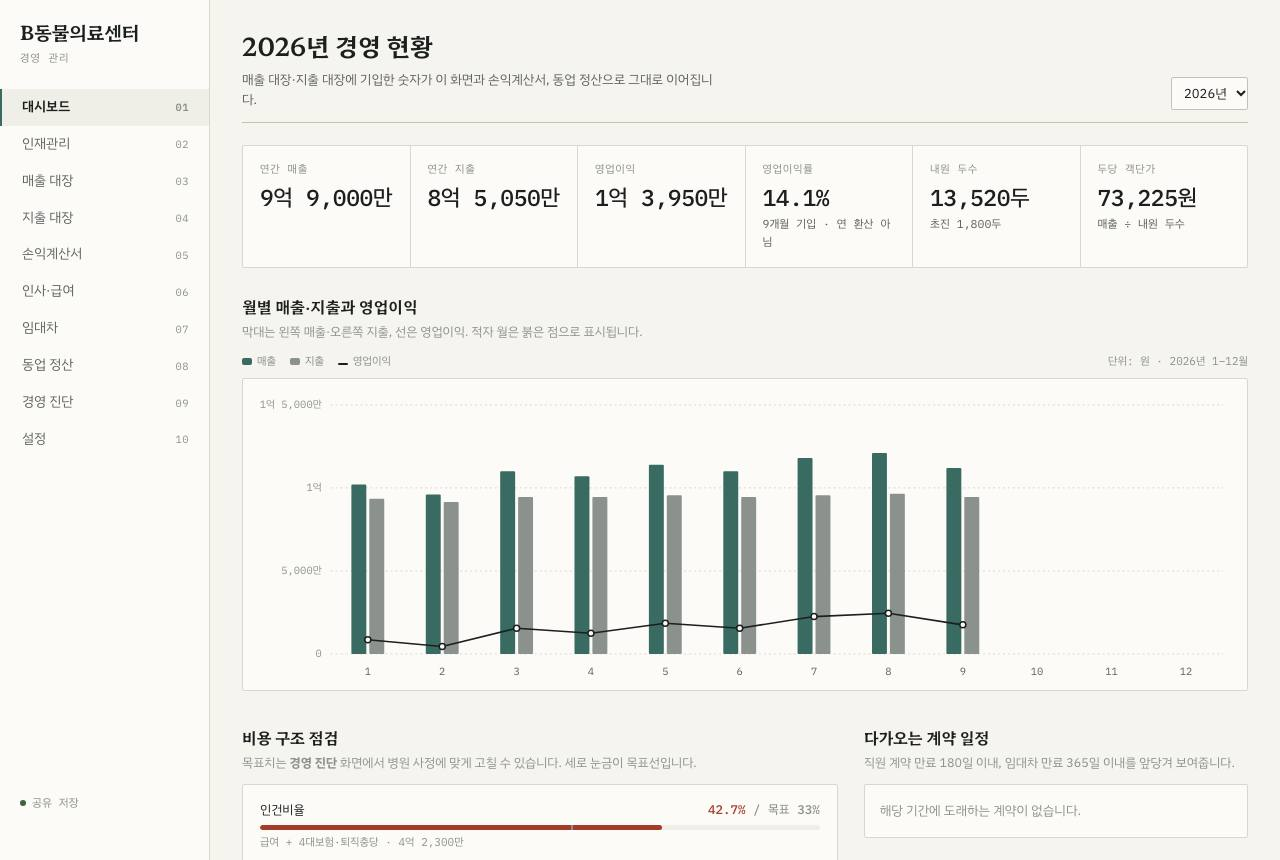
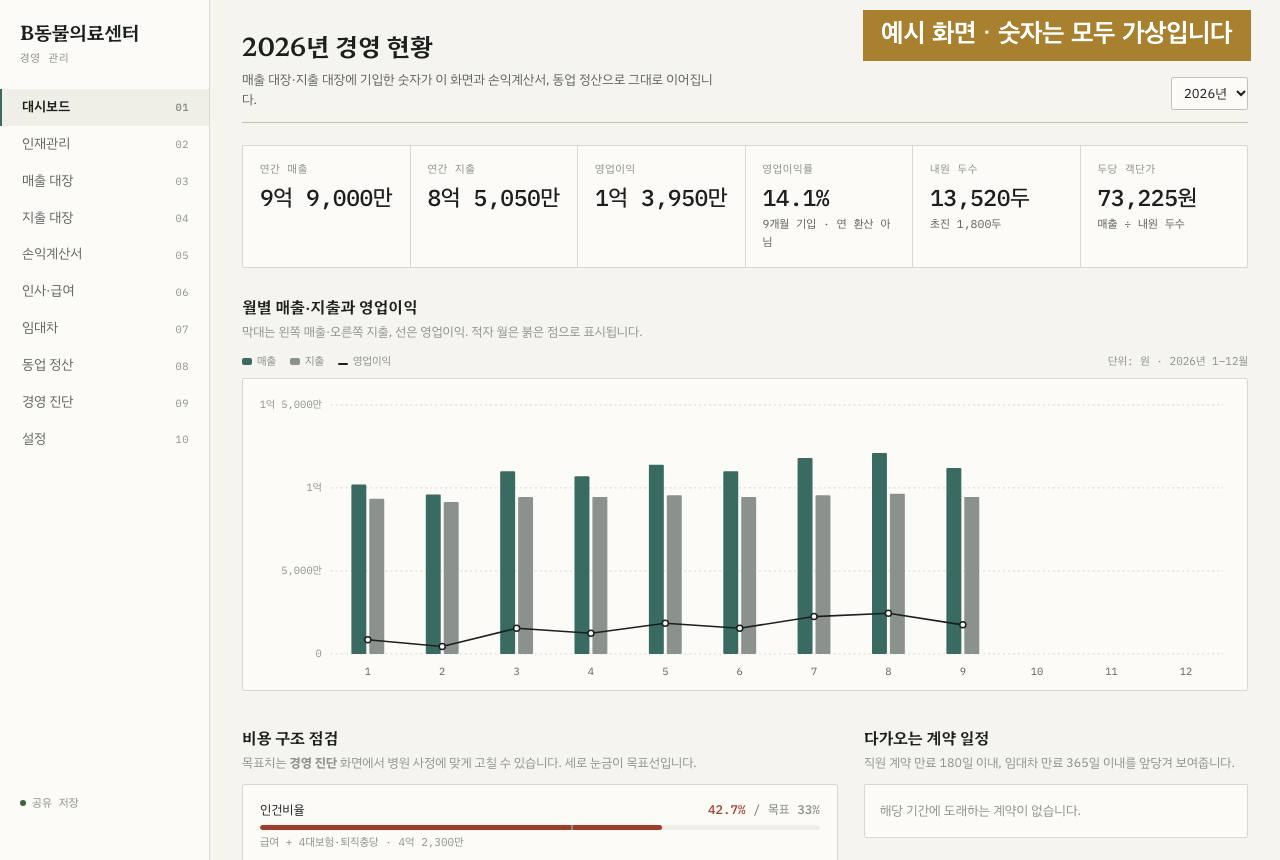
AI 교육 페이지: 경영대장 화면에 예시 표시, 화면 보기 창에 가상 데이터 안내

Changed region(s): [[0.6562, 0.0, 1.0, 0.0907]]

diff --git a/public/ai-class.html b/public/ai-class.html
@@ -119,6 +119,7 @@ table.cost tr.sum td{border-bottom:2px solid var(--ink);font-weight:700;padding-
 .pdlg-h p{color:var(--ink-2);font-size:.93rem;margin-top:4px}
 .pdlg-h button{font:inherit;font-size:.85rem;background:transparent;color:var(--ink);border:1px solid var(--line);padding:6px 14px;cursor:pointer}
 .pdlg img{width:100%;height:auto;border:1px solid var(--line);display:block}
+.pdlg-c{font-size:.82rem;color:var(--ink-3);margin-top:-6px}
 .pdlg-no{padding:40px 0;text-align:center;color:var(--ink-3);border:1px dashed var(--line)}
 .why{display:grid;grid-template-columns:minmax(0,.8fr) minmax(0,1.2fr);gap:56px}
 .why-body{display:grid;gap:16px;font-family:var(--serif);font-size:1.08rem;line-height:1.85;max-width:62ch}
@@ -351,7 +352,7 @@ footer{padding-block:32px;font-size:.82rem;color:var(--ink-3)}
     </ul>
     <div class="prog-list" id="plist"></div>
     <p class="note">이름을 누르면 전과 후가 어떻게 달라졌는지, 실제 화면과 함께 볼 수 있습니다. 화면 속 환자·직원·병원 이름과 수치는 모두 실제 사용 모습을 보여 드리기 위한 가상 데이터입니다.</p>
-    <dialog id="pdlg" class="pdlg"><div class="pdlg-in"><div class="pdlg-h"><div><b id="pdlgT"></b><div id="pdlgD" class="pdlg-d"></div></div><button type="button" id="pdlgX" aria-label="닫기">닫기</button></div><img id="pdlgI" alt="" hidden><p id="pdlgN" class="pdlg-no" hidden>화면은 교육 당일 시연으로 보여 드립니다.</p></div></dialog>
+    <dialog id="pdlg" class="pdlg"><div class="pdlg-in"><div class="pdlg-h"><div><b id="pdlgT"></b><div id="pdlgD" class="pdlg-d"></div></div><button type="button" id="pdlgX" aria-label="닫기">닫기</button></div><img id="pdlgI" alt="" hidden><p id="pdlgC" class="pdlg-c" hidden>예시 화면입니다. 이름과 숫자는 모두 가상 데이터입니다.</p><p id="pdlgN" class="pdlg-no" hidden>화면은 교육 당일 시연으로 보여 드립니다.</p></div></dialog>
   </div>
 </section>
 
@@ -535,7 +536,7 @@ footer{padding-block:32px;font-size:.82rem;color:var(--ink-3)}
 
 <script>
 (function(){
-  var G=[["진료", [{"n": "진료 녹음 차트", "t": "녹음을 고르면 SOAP 차트와 보호자 카톡 문안이 나옵니다", "i": "", "b": "", "a": "Plaud로 녹음한 진료를 SOAP 차트와 보호자에게 보낼 카카오톡 문안으로 정리합니다.", "p": ["녹음 전사문을 근거로 차트를 쓰므로 기억에 의존하지 않습니다", "보호자 안내가 매번 같은 형식으로 나갑니다"]}, {"n": "보호자 사전문진", "t": "진료실에 들어가기 전에 이미 환자를 압니다", "i": "/ai-class/shots/intake.jpg?v=2", "b": "", "a": "예약 안내 카톡에 링크 한 줄을 붙이면, 보호자가 전날 적어 둔 내용을 다음 날 진료 전에 읽습니다.", "p": ["진료 시간을 질문보다 설명과 상담에 쓸 수 있습니다", "보호자는 자기 답도 다시 볼 수 없고, 기기에도 남기지 않도록 만들었습니다", "병원 태블릿을 여러 보호자가 돌려 써도 앞사람 내용이 보이지 않습니다"]}, {"n": "마취 기록지", "t": "그래프는 저절로, 이상 수치는 붉게", "i": "/ai-class/shots/anes.jpg?v=2", "b": "종이 기록지에 활력징후를 적고 그래프를 손으로 그렸습니다.", "a": "휴대폰과 수술방 PC에서 같은 기록지를 함께 적고, 종이와 같은 기호로 그래프가 자동으로 그려집니다.", "p": ["MAP·SpO₂·ETCO₂·체온이 기준을 벗어나면 붉게 표시되고, 기록 간격을 넘기면 알려 줍니다", "용량(mg/kg)을 넣으면 투약량(mL)이 자동으로 계산됩니다", "끝나면 기록지를 사진 한 장으로 저장해 차트에 붙입니다"]}, {"n": "혈액투석 기록지", "t": "종이 기록지 32개 항목과 수분 수지를 실시간으로", "i": "/ai-class/shots/hd.jpg?v=2", "b": "종이 기록지에 시간대별 수치를 적었습니다.", "a": "종이 기록지의 32개 항목을 순서 그대로 옮긴 앱에서 여러 기기가 함께 기록합니다.", "p": ["이전 투석 값이 자동으로 채워지고 BUN·CREA 감소율이 계산됩니다", "들어간 수액과 기계가 뺀 양을 합쳐 수분 수지를 실시간으로 보여 줍니다", "다른 기기에서 고친 내용이 기록지 화면에서는 5초 안에 반영되고, 수의사 오더도 기록지 안에서 냅니다"]}, {"n": "수의 임상 계산기 29종", "t": "체중 한 번 입력으로 29가지 계산", "i": "/ai-class/shots/calc.jpg?v=2", "b": "", "a": "종과 체중을 한 번 넣으면 수액, 전해질, 약물, 수혈, 투석 등 29종 가운데 체중이 필요한 계산에 모두 반영됩니다.", "p": ["응급 상황에서 계산 실수를 줄입니다", "인터넷이 끊겨도 열립니다", "새로 온 수의사도 같은 기준으로 계산합니다"]}, {"n": "건강검진 결과서", "t": "차트와 사진을 올리면 결과서 초안이 나옵니다", "i": "", "b": "", "a": "진료차트 PDF와 엑스레이·초음파·치과 사진을 올리면 보호자용 결과서 초안을 만들고, 화면에서 고친 뒤 PDF로 뽑습니다.", "p": ["결과서를 처음부터 쓰지 않고 초안을 고치는 일로 바뀝니다", "보호자가 읽기 쉬운 같은 형식으로 나갑니다"]}]], ["운영", [{"n": "마약류 관리", "t": "NIMS 보고를 빠뜨리지 않습니다", "i": "/ai-class/shots/narcotics.jpg?v=2", "b": "카카오톡 단체방과 수기 장부로 관리했습니다.", "a": "사용 기록을 큰 버튼 몇 번으로 남기면(목표 30초) NIMS 보고 대기함이 자동으로 만들어집니다.", "p": ["보고를 완료할 때까지 대기함에서 사라지지 않고, 3일이 지나면 경고합니다", "한 병을 여러 환자가 나눠 쓴 잔량이 자동으로 계산됩니다", "누가 언제 무엇을 했는지 감사 기록이 남습니다"]}, {"n": "리셉 알림 보드", "t": "접수와 진료실 사이의 전달판", "i": "/ai-class/shots/recep.jpg?v=2", "b": "", "a": "1층 접수와 진료실이 내복약 요청과 전달 사항을 실시간 보드로 주고받습니다.", "p": ["새 알림을 소리로 읽어 줘 화면을 보고 있지 않아도 압니다", "처리한 항목은 체크하면 완료 구역으로 내려가 남은 일만 위에 보입니다"]}, {"n": "수혈 혈액 재고", "t": "유효기한 임박을 아침마다 알려 줍니다", "i": "/ai-class/shots/blood.jpg?v=2", "b": "종이와 구글 시트로 혈액 팩을 관리했습니다.", "a": "종·성분·혈액형별로 지금 쓸 수 있는 팩이 한 화면에 보입니다.", "p": ["채혈일만 넣으면 성분별 유효기한이 자동으로 계산됩니다", "임박하거나 지난 팩이 있으면 매일 아침 7시 원장 카카오톡으로 알려 줍니다", "어떤 팩을 어느 환자에게 썼는지 기록이 남습니다"]}, {"n": "테크니션 근무표", "t": "매달 손으로 짜던 근무표를 자동으로", "i": "/ai-class/shots/techshift.jpg?v=2", "b": "부장이 매달 구글 시트로 근무표를 손으로 짰습니다.", "a": "휴무 규칙으로 쉬는 날을 정하고, 남은 출근자를 오전·오후로 자동 배분합니다.", "p": ["규칙 위반을 자동으로 점검합니다", "연차·월차·병가 기록이 함께 관리됩니다", "여러 기기에서 같이 고쳐도 자동으로 합쳐집니다"]}, {"n": "의뢰환자 관리", "t": "의뢰 병원별 현황과 회신을 한눈에", "i": "/ai-class/shots/referral.jpg?v=2", "b": "", "a": "의뢰 환자와 의뢰 병원, 회신 여부를 한곳에서 관리합니다.", "p": ["어느 병원에서 얼마나 의뢰가 오는지 보입니다", "회신을 놓친 환자를 바로 찾습니다"]}, {"n": "미용실 예약", "t": "어느 기기에서나 같은 예약장부", "i": "/ai-class/shots/grooming.jpg?v=2", "b": "종이 예약 차트에 적었습니다.", "a": "어느 컴퓨터·태블릿에서 열어도 같은 예약장부가 실시간으로 공유됩니다.", "p": ["이름과 연락처로 예약을 찾습니다", "하루 차트를 바로 인쇄합니다"]}, {"n": "스튜디오 예약", "t": "겹치는 예약은 저장되지 않습니다", "i": "/ai-class/shots/studio.jpg?v=2", "b": "", "a": "상주 직원이 없는 별도 공간을 예약제로 운영합니다.", "p": ["같은 시간에 예약이 겹치면 저장이 잠기고 누구와 겹치는지 알려 줍니다"]}]], ["경영·학술", [{"n": "원장실 경영대장", "t": "공동원장이 같은 숫자를 봅니다", "i": "/ai-class/shots/ledger.jpg?v=2", "b": "", "a": "매출, 객단가, 내원, 손익을 공동원장들이 한 화면에서 봅니다.", "p": ["휴대폰에 설치해 인터넷이 끊겨도 엽니다"]}, {"n": "인재관리", "t": "누구를 언제 챙길지 먼저 알려 줍니다", "i": "/ai-class/shots/people.jpg?v=2", "b": "", "a": "직원의 계약, 연봉, 원온원 면담, 수시 기록을 한곳에 모읍니다.", "p": ["면담이 밀린 사람, 계약 만료가 가까운 사람, 연봉을 오래 그대로 둔 사람을 먼저 보여 줍니다", "면담 전에 지난 면담 요약과 남은 약속, 질문 세 개를 꺼내 줍니다"]}, {"n": "수의학 데일리 브리핑", "t": "매일 새벽 관심 분야 논문이 카톡으로", "i": "/ai-class/shots/briefing.jpg?v=2", "b": "", "a": "매일 새벽 PubMed에서 신규 논문을 찾아 요약하고 카카오톡으로 보냅니다.", "p": ["인스타그램 카드와 네이버 블로그 초안까지 함께 만들어집니다", "논문 인용과 수치는 게시 전에 다시 확인합니다"]}, {"n": "논문 번역기", "t": "한국어로 쓰인 논문처럼 읽습니다", "i": "/ai-class/shots/papers.jpg?v=2", "b": "", "a": "영어 논문 PDF를 열면 원문 옆에 같은 지면의 한국어 논문이 나란히 열립니다.", "p": ["그림·표·배치는 원본 그대로 두고 글만 바꿉니다", "시간이 없을 때는 핵심 요약, 주요 수치, 임상 적용 포인트만 정리합니다"]}, {"n": "한국동물병원협회 회원 앱", "t": "회원 약 4,000명을 위해 만든 협회 앱", "i": "", "b": "", "a": "협회 홈페이지 계정으로 로그인해 소식, 교육 일정, 양식, 계산기를 휴대폰에서 봅니다.", "p": ["교육 신청 마감 3일 전부터 알림이 갑니다", "협회 양식 265종을 검색해 내려받습니다"]}, {"n": "AAHA CON 참관 수첩", "t": "해외 학회를 한글로 준비합니다", "i": "/ai-class/shots/aaha.jpg?v=2", "b": "", "a": "학회 세션 118건을 한글 제목과 요약으로 정리하고 시간대별로 추천합니다.", "p": ["현장에서 적은 메모로 운영위원회 일일 보고문을 만듭니다"]}]], ["마케팅·개인", [{"n": "이태호 수의사 홈페이지", "t": "직접 만들고 매주 새 소식을 반영합니다", "i": "/ai-class/shots/home.jpg?v=2", "b": "", "a": "의료진 개인 홈페이지를 직접 만들었습니다.", "p": ["보도, 논문, 유튜브 영상을 매주 확인해 반영합니다", "네이버·구글 검색 등록과 병원 정보 구조화 데이터를 넣었습니다"]}, {"n": "동료 수의사 홈페이지 1", "t": "같은 방식으로 만든 동료 원장 홈페이지", "i": "", "b": "", "a": "동료 원장님의 개인 홈페이지입니다.", "p": ["매주 같은 방식으로 새 소식을 반영합니다"]}, {"n": "동료 수의사 홈페이지 2", "t": "같은 방식으로 만든 동료 원장 홈페이지", "i": "", "b": "", "a": "동료 원장님의 개인 홈페이지입니다.", "p": ["매주 같은 방식으로 새 소식을 반영합니다"]}, {"n": "케이스 카드 제작기", "t": "수술 증례를 카드뉴스로", "i": "/ai-class/shots/cases.jpg?v=2", "b": "", "a": "사진과 진료 메모를 넣으면 카드 문구 초안을 만들고 인스타그램 규격 카드를 뽑습니다.", "p": ["게시글 문구까지 함께 나옵니다", "환자 이름·차트번호 칸을 아예 두지 않고, 영상 사진에 새겨진 이름은 자동으로 가립니다"]}, {"n": "유튜브 채널 기획실", "t": "감이 아니라 데이터로 기획합니다", "i": "", "b": "", "a": "채널의 실제 조회수 데이터로 어떤 주제와 제목이 반응했는지 봅니다.", "p": ["기획부터 게시까지 보드에서 함께 관리합니다", "목표 구독자까지 지금 속도로 언제 도달하는지 보여 줍니다"]}, {"n": "개인 건강 기록", "t": "원장 개인용 건강 기록", "i": "", "b": "", "a": "원장 개인의 하루 건강 기록을 남기는 앱입니다.", "p": []}]]];
+  var G=[["진료", [{"n": "진료 녹음 차트", "t": "녹음을 고르면 SOAP 차트와 보호자 카톡 문안이 나옵니다", "i": "", "b": "", "a": "Plaud로 녹음한 진료를 SOAP 차트와 보호자에게 보낼 카카오톡 문안으로 정리합니다.", "p": ["녹음 전사문을 근거로 차트를 쓰므로 기억에 의존하지 않습니다", "보호자 안내가 매번 같은 형식으로 나갑니다"]}, {"n": "보호자 사전문진", "t": "진료실에 들어가기 전에 이미 환자를 압니다", "i": "/ai-class/shots/intake.jpg?v=3", "b": "", "a": "예약 안내 카톡에 링크 한 줄을 붙이면, 보호자가 전날 적어 둔 내용을 다음 날 진료 전에 읽습니다.", "p": ["진료 시간을 질문보다 설명과 상담에 쓸 수 있습니다", "보호자는 자기 답도 다시 볼 수 없고, 기기에도 남기지 않도록 만들었습니다", "병원 태블릿을 여러 보호자가 돌려 써도 앞사람 내용이 보이지 않습니다"]}, {"n": "마취 기록지", "t": "그래프는 저절로, 이상 수치는 붉게", "i": "/ai-class/shots/anes.jpg?v=3", "b": "종이 기록지에 활력징후를 적고 그래프를 손으로 그렸습니다.", "a": "휴대폰과 수술방 PC에서 같은 기록지를 함께 적고, 종이와 같은 기호로 그래프가 자동으로 그려집니다.", "p": ["MAP·SpO₂·ETCO₂·체온이 기준을 벗어나면 붉게 표시되고, 기록 간격을 넘기면 알려 줍니다", "용량(mg/kg)을 넣으면 투약량(mL)이 자동으로 계산됩니다", "끝나면 기록지를 사진 한 장으로 저장해 차트에 붙입니다"]}, {"n": "혈액투석 기록지", "t": "종이 기록지 32개 항목과 수분 수지를 실시간으로", "i": "/ai-class/shots/hd.jpg?v=3", "b": "종이 기록지에 시간대별 수치를 적었습니다.", "a": "종이 기록지의 32개 항목을 순서 그대로 옮긴 앱에서 여러 기기가 함께 기록합니다.", "p": ["이전 투석 값이 자동으로 채워지고 BUN·CREA 감소율이 계산됩니다", "들어간 수액과 기계가 뺀 양을 합쳐 수분 수지를 실시간으로 보여 줍니다", "다른 기기에서 고친 내용이 기록지 화면에서는 5초 안에 반영되고, 수의사 오더도 기록지 안에서 냅니다"]}, {"n": "수의 임상 계산기 29종", "t": "체중 한 번 입력으로 29가지 계산", "i": "/ai-class/shots/calc.jpg?v=3", "b": "", "a": "종과 체중을 한 번 넣으면 수액, 전해질, 약물, 수혈, 투석 등 29종 가운데 체중이 필요한 계산에 모두 반영됩니다.", "p": ["응급 상황에서 계산 실수를 줄입니다", "인터넷이 끊겨도 열립니다", "새로 온 수의사도 같은 기준으로 계산합니다"]}, {"n": "건강검진 결과서", "t": "차트와 사진을 올리면 결과서 초안이 나옵니다", "i": "", "b": "", "a": "진료차트 PDF와 엑스레이·초음파·치과 사진을 올리면 보호자용 결과서 초안을 만들고, 화면에서 고친 뒤 PDF로 뽑습니다.", "p": ["결과서를 처음부터 쓰지 않고 초안을 고치는 일로 바뀝니다", "보호자가 읽기 쉬운 같은 형식으로 나갑니다"]}]], ["운영", [{"n": "마약류 관리", "t": "NIMS 보고를 빠뜨리지 않습니다", "i": "/ai-class/shots/narcotics.jpg?v=3", "b": "카카오톡 단체방과 수기 장부로 관리했습니다.", "a": "사용 기록을 큰 버튼 몇 번으로 남기면(목표 30초) NIMS 보고 대기함이 자동으로 만들어집니다.", "p": ["보고를 완료할 때까지 대기함에서 사라지지 않고, 3일이 지나면 경고합니다", "한 병을 여러 환자가 나눠 쓴 잔량이 자동으로 계산됩니다", "누가 언제 무엇을 했는지 감사 기록이 남습니다"]}, {"n": "리셉 알림 보드", "t": "접수와 진료실 사이의 전달판", "i": "/ai-class/shots/recep.jpg?v=3", "b": "", "a": "1층 접수와 진료실이 내복약 요청과 전달 사항을 실시간 보드로 주고받습니다.", "p": ["새 알림을 소리로 읽어 줘 화면을 보고 있지 않아도 압니다", "처리한 항목은 체크하면 완료 구역으로 내려가 남은 일만 위에 보입니다"]}, {"n": "수혈 혈액 재고", "t": "유효기한 임박을 아침마다 알려 줍니다", "i": "/ai-class/shots/blood.jpg?v=3", "b": "종이와 구글 시트로 혈액 팩을 관리했습니다.", "a": "종·성분·혈액형별로 지금 쓸 수 있는 팩이 한 화면에 보입니다.", "p": ["채혈일만 넣으면 성분별 유효기한이 자동으로 계산됩니다", "임박하거나 지난 팩이 있으면 매일 아침 7시 원장 카카오톡으로 알려 줍니다", "어떤 팩을 어느 환자에게 썼는지 기록이 남습니다"]}, {"n": "테크니션 근무표", "t": "매달 손으로 짜던 근무표를 자동으로", "i": "/ai-class/shots/techshift.jpg?v=3", "b": "부장이 매달 구글 시트로 근무표를 손으로 짰습니다.", "a": "휴무 규칙으로 쉬는 날을 정하고, 남은 출근자를 오전·오후로 자동 배분합니다.", "p": ["규칙 위반을 자동으로 점검합니다", "연차·월차·병가 기록이 함께 관리됩니다", "여러 기기에서 같이 고쳐도 자동으로 합쳐집니다"]}, {"n": "의뢰환자 관리", "t": "의뢰 병원별 현황과 회신을 한눈에", "i": "/ai-class/shots/referral.jpg?v=3", "b": "", "a": "의뢰 환자와 의뢰 병원, 회신 여부를 한곳에서 관리합니다.", "p": ["어느 병원에서 얼마나 의뢰가 오는지 보입니다", "회신을 놓친 환자를 바로 찾습니다"]}, {"n": "미용실 예약", "t": "어느 기기에서나 같은 예약장부", "i": "/ai-class/shots/grooming.jpg?v=3", "b": "종이 예약 차트에 적었습니다.", "a": "어느 컴퓨터·태블릿에서 열어도 같은 예약장부가 실시간으로 공유됩니다.", "p": ["이름과 연락처로 예약을 찾습니다", "하루 차트를 바로 인쇄합니다"]}, {"n": "스튜디오 예약", "t": "겹치는 예약은 저장되지 않습니다", "i": "/ai-class/shots/studio.jpg?v=3", "b": "", "a": "상주 직원이 없는 별도 공간을 예약제로 운영합니다.", "p": ["같은 시간에 예약이 겹치면 저장이 잠기고 누구와 겹치는지 알려 줍니다"]}]], ["경영·학술", [{"n": "원장실 경영대장", "t": "공동원장이 같은 숫자를 봅니다", "i": "/ai-class/shots/ledger.jpg?v=3", "b": "", "a": "매출, 객단가, 내원, 손익을 공동원장들이 한 화면에서 봅니다. 아래 화면은 가상 숫자로 만든 예시이며 실제 병원 실적이 아닙니다.", "p": ["휴대폰에 설치해 인터넷이 끊겨도 엽니다"]}, {"n": "인재관리", "t": "누구를 언제 챙길지 먼저 알려 줍니다", "i": "/ai-class/shots/people.jpg?v=3", "b": "", "a": "직원의 계약, 연봉, 원온원 면담, 수시 기록을 한곳에 모읍니다.", "p": ["면담이 밀린 사람, 계약 만료가 가까운 사람, 연봉을 오래 그대로 둔 사람을 먼저 보여 줍니다", "면담 전에 지난 면담 요약과 남은 약속, 질문 세 개를 꺼내 줍니다"]}, {"n": "수의학 데일리 브리핑", "t": "매일 새벽 관심 분야 논문이 카톡으로", "i": "/ai-class/shots/briefing.jpg?v=3", "b": "", "a": "매일 새벽 PubMed에서 신규 논문을 찾아 요약하고 카카오톡으로 보냅니다.", "p": ["인스타그램 카드와 네이버 블로그 초안까지 함께 만들어집니다", "논문 인용과 수치는 게시 전에 다시 확인합니다"]}, {"n": "논문 번역기", "t": "한국어로 쓰인 논문처럼 읽습니다", "i": "/ai-class/shots/papers.jpg?v=3", "b": "", "a": "영어 논문 PDF를 열면 원문 옆에 같은 지면의 한국어 논문이 나란히 열립니다.", "p": ["그림·표·배치는 원본 그대로 두고 글만 바꿉니다", "시간이 없을 때는 핵심 요약, 주요 수치, 임상 적용 포인트만 정리합니다"]}, {"n": "한국동물병원협회 회원 앱", "t": "회원 약 4,000명을 위해 만든 협회 앱", "i": "", "b": "", "a": "협회 홈페이지 계정으로 로그인해 소식, 교육 일정, 양식, 계산기를 휴대폰에서 봅니다.", "p": ["교육 신청 마감 3일 전부터 알림이 갑니다", "협회 양식 265종을 검색해 내려받습니다"]}, {"n": "AAHA CON 참관 수첩", "t": "해외 학회를 한글로 준비합니다", "i": "/ai-class/shots/aaha.jpg?v=3", "b": "", "a": "학회 세션 118건을 한글 제목과 요약으로 정리하고 시간대별로 추천합니다.", "p": ["현장에서 적은 메모로 운영위원회 일일 보고문을 만듭니다"]}]], ["마케팅·개인", [{"n": "이태호 수의사 홈페이지", "t": "직접 만들고 매주 새 소식을 반영합니다", "i": "/ai-class/shots/home.jpg?v=3", "b": "", "a": "의료진 개인 홈페이지를 직접 만들었습니다.", "p": ["보도, 논문, 유튜브 영상을 매주 확인해 반영합니다", "네이버·구글 검색 등록과 병원 정보 구조화 데이터를 넣었습니다"]}, {"n": "동료 수의사 홈페이지 1", "t": "같은 방식으로 만든 동료 원장 홈페이지", "i": "", "b": "", "a": "동료 원장님의 개인 홈페이지입니다.", "p": ["매주 같은 방식으로 새 소식을 반영합니다"]}, {"n": "동료 수의사 홈페이지 2", "t": "같은 방식으로 만든 동료 원장 홈페이지", "i": "", "b": "", "a": "동료 원장님의 개인 홈페이지입니다.", "p": ["매주 같은 방식으로 새 소식을 반영합니다"]}, {"n": "케이스 카드 제작기", "t": "수술 증례를 카드뉴스로", "i": "/ai-class/shots/cases.jpg?v=3", "b": "", "a": "사진과 진료 메모를 넣으면 카드 문구 초안을 만들고 인스타그램 규격 카드를 뽑습니다.", "p": ["게시글 문구까지 함께 나옵니다", "환자 이름·차트번호 칸을 아예 두지 않고, 영상 사진에 새겨진 이름은 자동으로 가립니다"]}, {"n": "유튜브 채널 기획실", "t": "감이 아니라 데이터로 기획합니다", "i": "", "b": "", "a": "채널의 실제 조회수 데이터로 어떤 주제와 제목이 반응했는지 봅니다.", "p": ["기획부터 게시까지 보드에서 함께 관리합니다", "목표 구독자까지 지금 속도로 언제 도달하는지 보여 줍니다"]}, {"n": "개인 건강 기록", "t": "원장 개인용 건강 기록", "i": "", "b": "", "a": "원장 개인의 하루 건강 기록을 남기는 앱입니다.", "p": []}]]];
   var box=document.getElementById("plist");
   box.innerHTML=G.map(function(g,gi){return '<div><h3>'+g[0]+' '+g[1].length+'</h3><ul>'+g[1].map(function(it,ii){return '<li><button type="button" class="pbtn" data-g="'+gi+'" data-i="'+ii+'"><em>'+it.n+'<small>'+it.t+'</small></em><span>'+(it.i?'화면 보기':'자세히')+'</span></button></li>'}).join("")+'</ul></div>'}).join("");
   var dlg=document.getElementById("pdlg");
@@ -545,7 +546,7 @@ footer{padding-block:32px;font-size:.82rem;color:var(--ink-3)}
     row("전에는",it.b);row("지금은",it.a);
     if(it.p&&it.p.length){var ul=document.createElement("ul");it.p.forEach(function(x){var li=document.createElement("li");li.textContent=x;ul.appendChild(li);});D.appendChild(ul);}
     var im=document.getElementById("pdlgI"),no=document.getElementById("pdlgN");
-    if(it.i){im.src=it.i;im.alt=it.n+" 화면";im.hidden=false;no.hidden=true;}else{im.hidden=true;im.removeAttribute("src");no.hidden=false;}
+    var cp=document.getElementById("pdlgC");if(it.i){im.src=it.i;im.alt=it.n+" 예시 화면";im.hidden=false;no.hidden=true;cp.hidden=false;}else{im.hidden=true;im.removeAttribute("src");no.hidden=false;cp.hidden=true;}
     if(dlg.showModal)dlg.showModal();else dlg.setAttribute("open","");
     try{history.pushState({pdlg:1},"");}catch(_){}});
   function shut(){if(dlg.open){dlg.close?dlg.close():dlg.removeAttribute("open");}}
